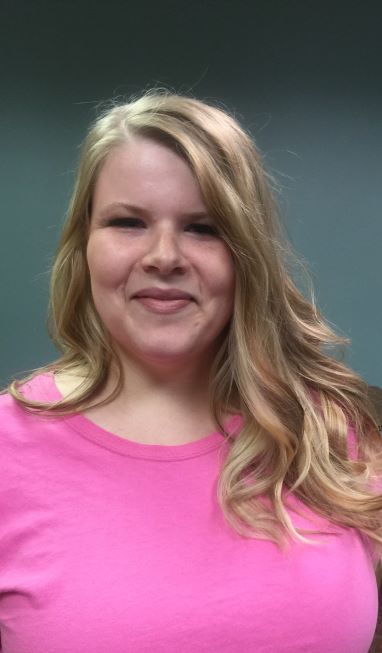
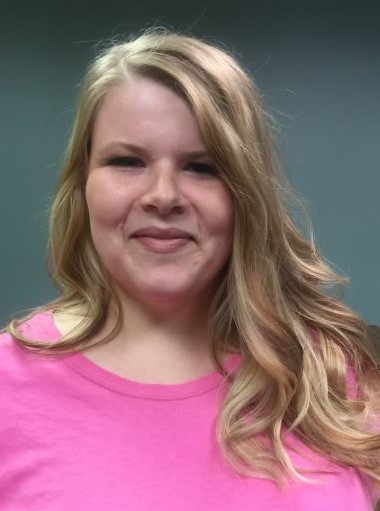
edited portfoilio page and headshot for better optics.

diff --git a/style.css b/style.css
@@ -22,16 +22,16 @@ body {background-color: lightslategray;}
     max-height: 100px;
   } */
 
-  img {
+  /* img {
     image-rendering: auto;
     image-rendering: crisp-edges;
     image-rendering: pixelated;
-  }
+  } */
   
   img {
     image-rendering: pixelated;
   }
-  
+
   #page-container {
   position: relative;
   min-height: 100vh;
